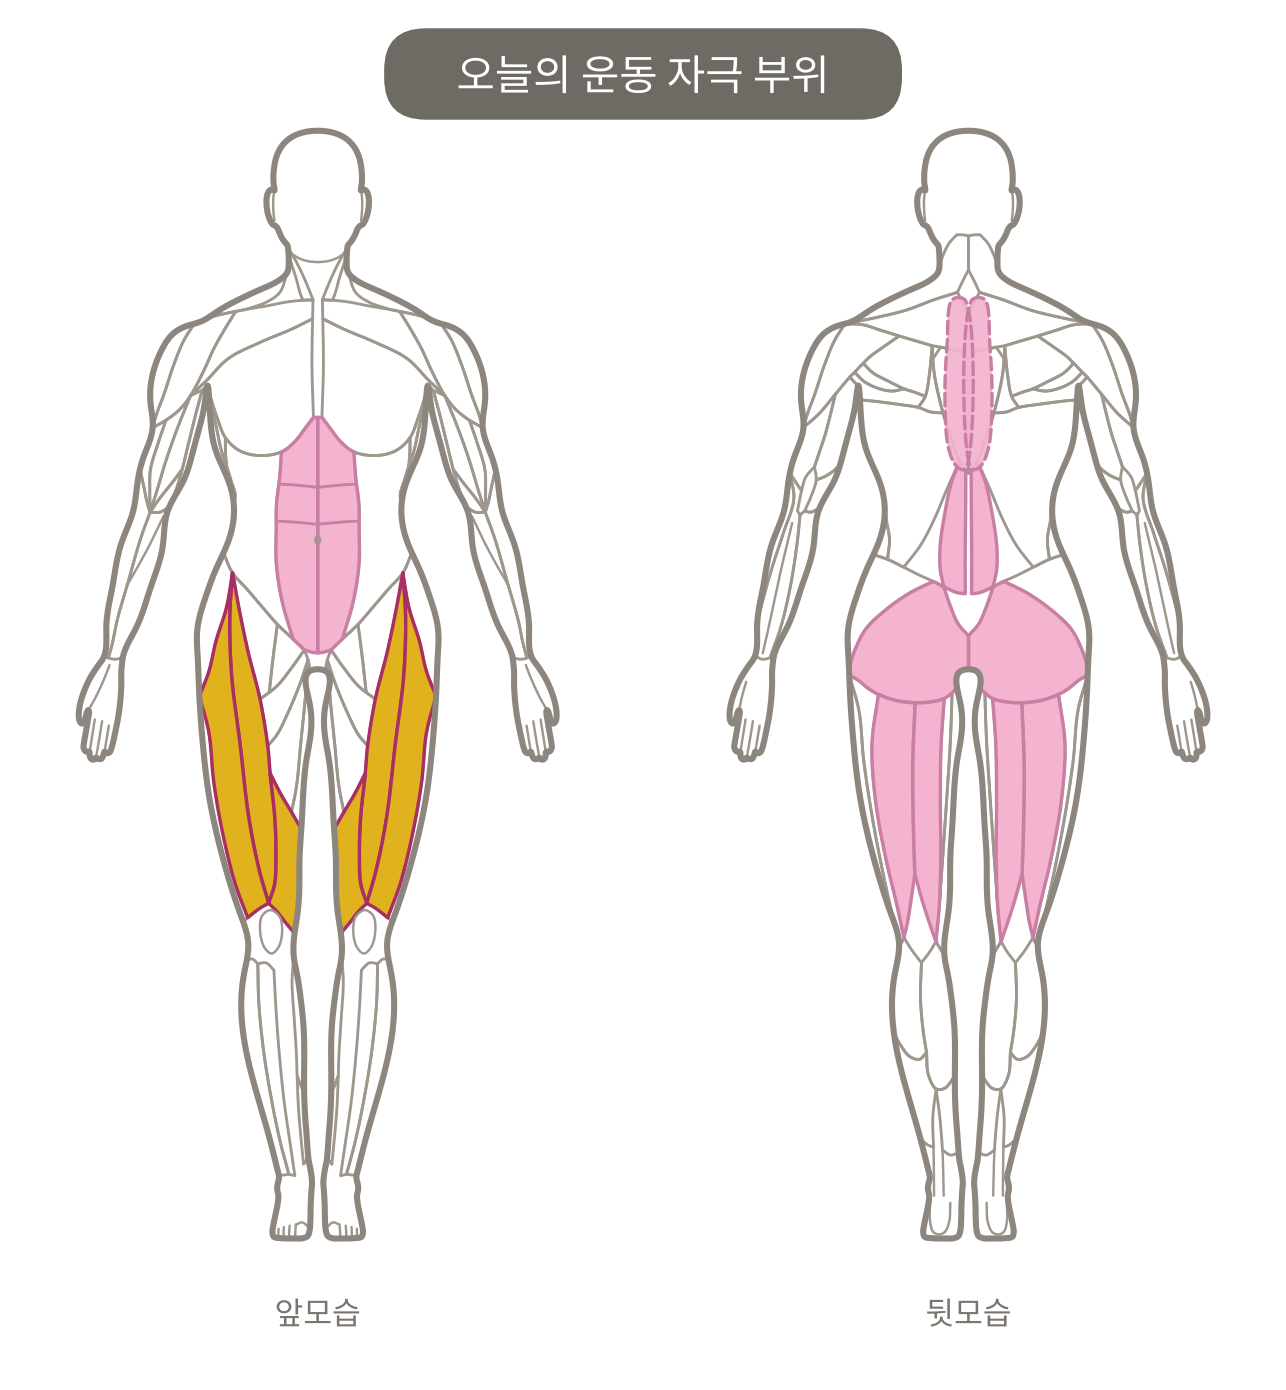
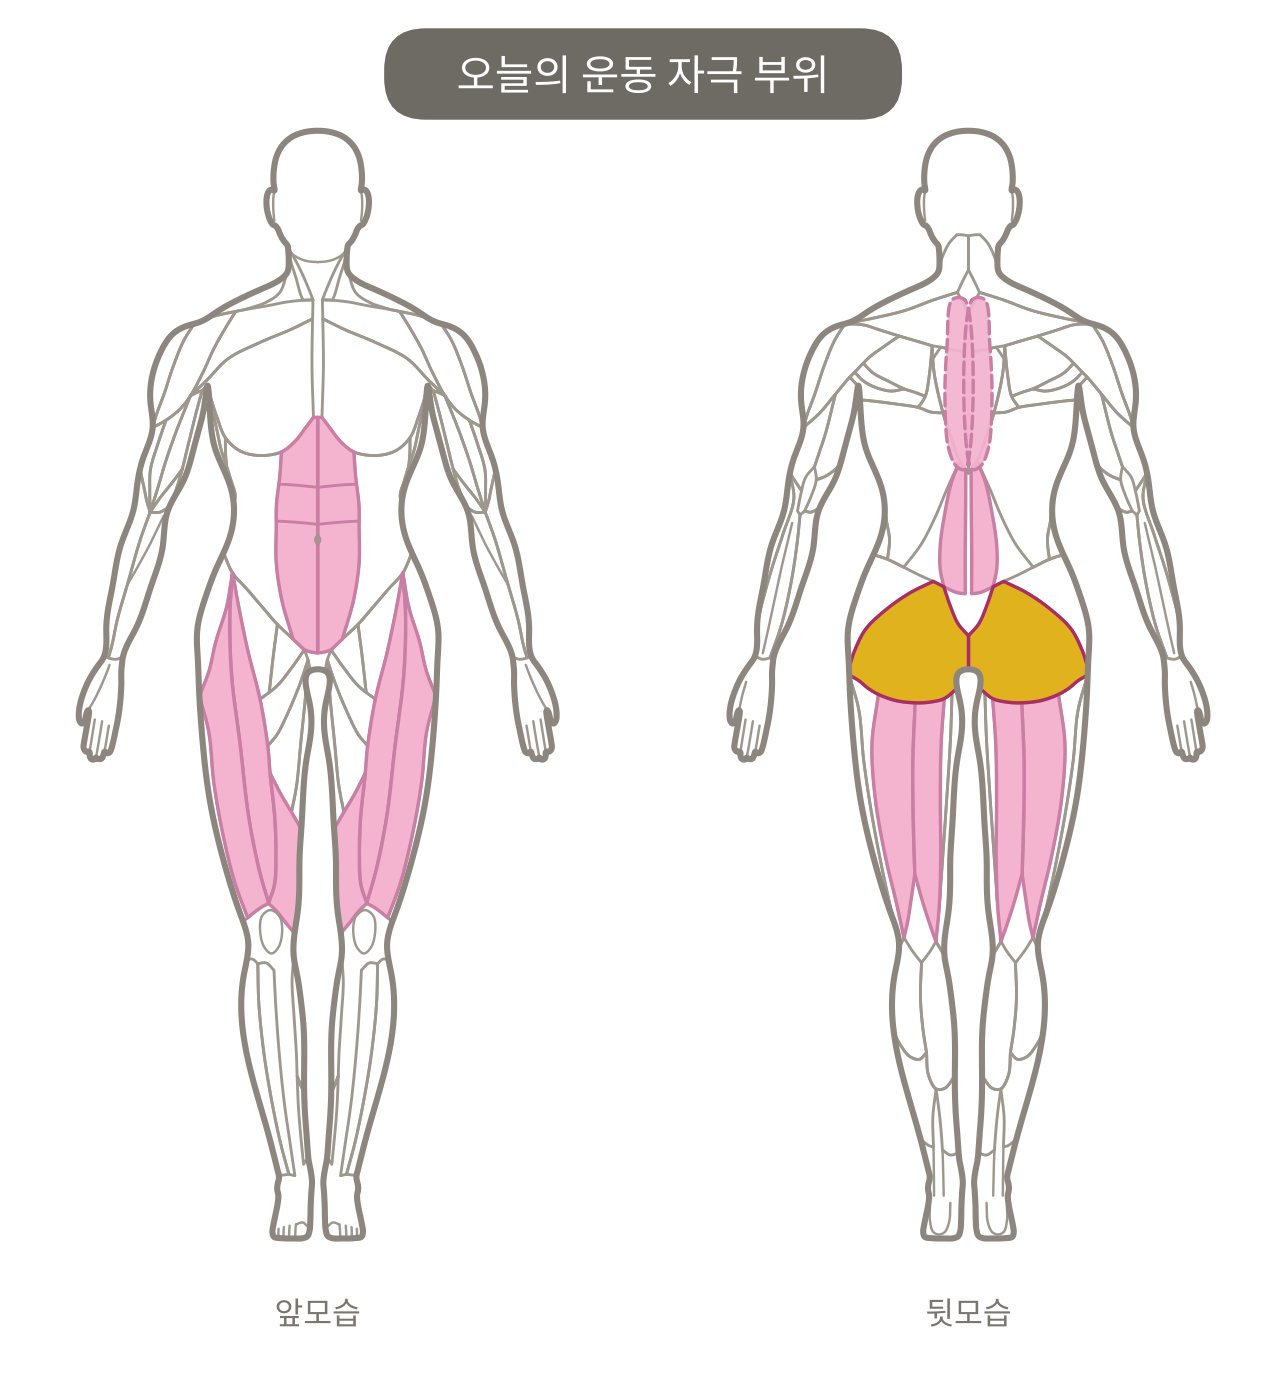
유선 내로우 스쿼트: 엉덩이 타겟으로 문구·자극 부위 수정
Claude-Session: https://claude.ai/code/session_012Da69aMWQt7HsyBzMoqJCJ

Changed region(s): [[0.1555, 0.4022, 0.3421, 0.6806], [0.6532, 0.4022, 0.8398, 0.5259]]

diff --git a/m/yuseon-ha83np/extra.js b/m/yuseon-ha83np/extra.js
@@ -30,26 +30,26 @@ window.MEMBER_EXTRA = {
     },
     {
       id: "1121-smith-narrow-squat", record: [["빈 바", 15], [2.5, 15], [5, 15]], dir: "media/form-1121-smith-narrow-squat/", date: "2026. 11. 21",
-      exercise: "스미스머신 내로우 스쿼트", exercise_en: "Smith Machine Narrow Squat", part: "하체",
-      targets: ["허벅지 앞 라인", "하체 힘 기르기", "바른 스쿼트 자세"],
-      benefit: "스미스머신 바를 등에 올리고 발을 골반 너비보다 좁게 모아 앉는 스쿼트예요. 바가 레일을 따라 움직여서 자세에 집중할 수 있고, 허벅지 앞을 많이 써요.",
-      key_point: "발은 좁게 · 무릎은 발끝 방향으로, 가슴 펴고 내려갔다 발바닥 전체로 밀어 일어나기!",
+      exercise: "스미스머신 내로우 스쿼트", exercise_en: "Smith Machine Narrow Squat", part: "엉덩이",
+      targets: ["엉덩이 (힙 업)", "힙 아래 라인", "바른 스쿼트 자세"],
+      benefit: "스미스머신 바를 등에 올리고 발을 좁게 모아 앉는 스쿼트예요. 오늘은 엉덩이를 뒤로 빼며 앉고 발뒤꿈치로 밀어 올라와서 엉덩이를 타겟으로 했어요.",
+      key_point: "엉덩이를 뒤로 쭉 빼며 앉고, 발뒤꿈치로 밀며 엉덩이를 조여 일어나기!",
       good_points: [
-        { title: "가슴을 폈어요", desc: "바를 등에 단단히 올리고 가슴을 펴서 상체가 무너지지 않았어요." },
-        { title: "깊이 앉았어요", desc: "허벅지가 바닥과 평행해질 만큼 충분히 내려갔어요." },
+        { title: "엉덩이를 뒤로 뺐어요", desc: "무릎보다 엉덩이가 먼저 뒤로 가면서 앉아 엉덩이에 힘이 실렸어요." },
+        { title: "깊이 앉았어요", desc: "엉덩이가 충분히 늘어나는 곳까지 내려갔어요." },
         { title: "무게를 올렸어요", desc: "빈 바에서 2.5kg, 5kg까지 올리며 15회씩 해냈어요." }
       ],
-      primary_muscles: [{ name: "대퇴사두근", where: "허벅지 앞쪽" }],
-      secondary_muscles: "대둔근 · 햄스트링 · 코어",
-      feel_good: "일어날 때 허벅지 앞이 뜨겁게 차오르는 느낌",
-      feel_stop: "무릎 앞이 찌릿하거나 허리가 뻐근하면 앉는 깊이를 줄여요",
+      primary_muscles: [{ name: "대둔근", where: "엉덩이" }],
+      secondary_muscles: "햄스트링 · 대퇴사두근 · 코어",
+      feel_good: "일어날 때 엉덩이가 꽉 조이는 느낌",
+      feel_stop: "허벅지 앞만 타거나 허리가 뻐근하면 엉덩이를 더 뒤로 빼고 깊이를 줄여요",
       steps: [
-        { title: "준비 자세", desc: "바를 등 위(승모근)에 올리고 손으로 잡아요. 발은 골반 너비보다 좁게, 발끝은 살짝 바깥으로.", chip: "배에 힘 주기", media: "step1.jpg" },
-        { title: "앉기", desc: "가슴을 편 채 무릎이 발끝 방향으로 나가게 천천히 앉아요.", chip: "앉으며 들이마시기", media: "step2.webp", loop: true },
-        { title: "밀어 일어나기", desc: "발바닥 전체로 바닥을 밀며 곧게 일어나요.", chip: "일어나며 후~", media: "step3.webp", loop: true }
+        { title: "준비 자세", desc: "바를 등 위(승모근)에 올리고 손으로 잡아요. 발은 좁게 모아 바보다 살짝 앞에 둬요.", chip: "배에 힘 주기", media: "step1.jpg" },
+        { title: "엉덩이 뒤로 앉기", desc: "의자에 앉듯 엉덩이를 뒤로 빼면서 가슴을 편 채 천천히 앉아요.", chip: "앉으며 들이마시기", media: "step2.webp", loop: true },
+        { title: "발뒤꿈치로 일어나기", desc: "발뒤꿈치로 바닥을 밀고 엉덩이를 조이며 곧게 일어나요.", chip: "일어나며 후~", media: "step3.webp", loop: true }
       ],
-      do: ["무릎은 발끝 방향으로", "가슴 펴고 시선 앞", "발바닥 전체로 밀기"],
-      dont: ["무릎 안으로 모이기", "발뒤꿈치 들기", "허리 둥글게 말기"]
+      do: ["엉덩이 먼저 뒤로", "무게는 발뒤꿈치에", "일어나며 엉덩이 조이기"],
+      dont: ["무릎부터 앞으로 나가기", "발뒤꿈치 들기", "허리 둥글게 말기"]
     },
     {
       id: "1121-smith-step-up", record: [["빈 바", 15], ["빈 바", 15], ["빈 바", 15]], dir: "media/form-1121-smith-step-up/", date: "2026. 11. 21",
